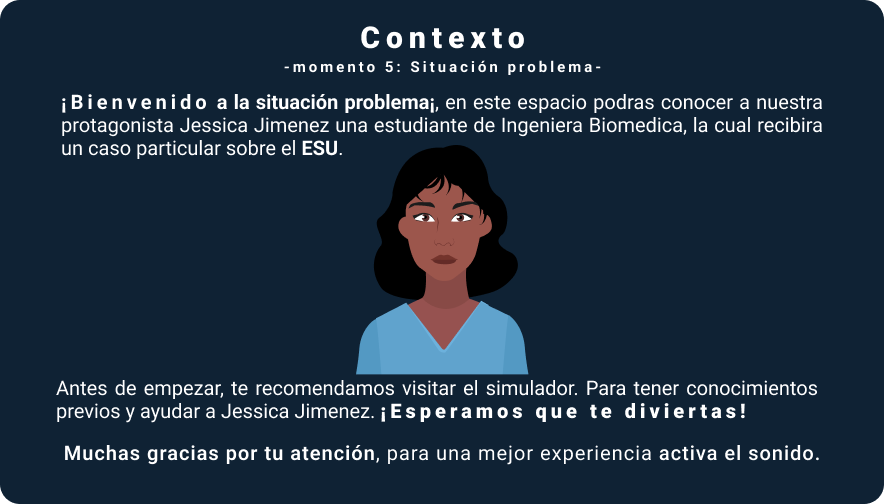
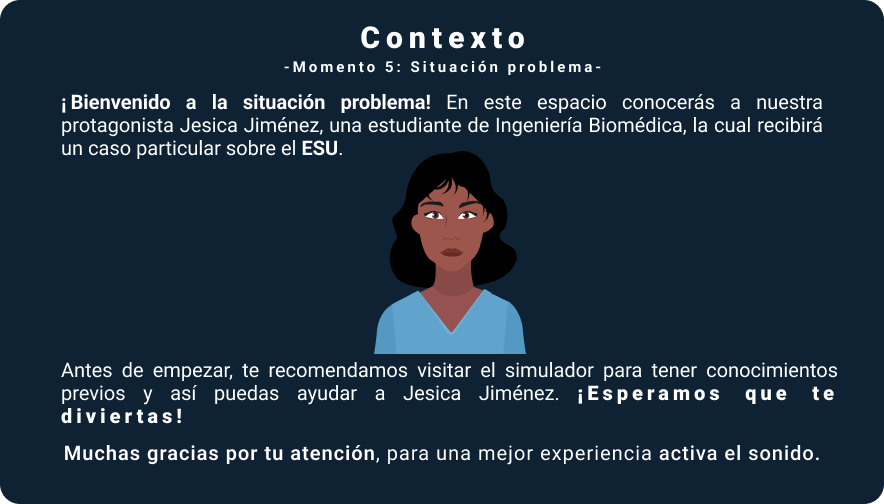
actualizacion v1.2

diff --git a/vistas/styles/stylemom2.css b/vistas/styles/stylemom2.css
@@ -262,7 +262,7 @@ visibility: visible;
 #i-eleminfo{
   display: flex;
   flex-direction: row;
-  padding: 2rem;
+  padding: 3rem;
  
 
 }
@@ -358,7 +358,7 @@ visibility: visible;
   #i-eleminfo{
     display: flex;
     flex-direction: row;
-    padding: 2rem;
+    padding: 3rem;
    
   
   }
@@ -426,7 +426,7 @@ visibility: visible;
   #i-eleminfo{
     display: flex;
     flex-direction: row;
-    padding: 2rem;
+    padding: 3rem;
    
   
   }
@@ -504,7 +504,7 @@ visibility: visible;
   #i-eleminfo{
     display: flex;
     flex-direction: column;
-    padding: 2rem;
+    padding: 3rem;
    
   
   }
@@ -543,7 +543,7 @@ visibility: visible;
   #info-texto{
     text-align: justify;
     font-size: 1.1rem;
-    height: 250px;
+    height: 120px;
    
 
   }
@@ -552,8 +552,8 @@ visibility: visible;
 
 #i-contexto{
     
-  top: 20%;
-  left: 12%;
+  top: 10%;
+  left: 10%;
   right: auto;
   bottom: auto;
 
@@ -562,7 +562,7 @@ visibility: visible;
 }
 
 #ig-img-context{
-   width: 85%;
+   width: 80%;
    height: 500px;
 }
 
@@ -620,7 +620,7 @@ visibility: visible;
   #i-eleminfo{
     display: flex;
     flex-direction: column;
-    padding: 2rem;
+    padding: 3rem;
    
   
   }
@@ -659,7 +659,7 @@ visibility: visible;
   #info-texto{
     text-align: justify;
     font-size: 1.1rem;
-    height: 200px;
+    height: 130px;
    
 
   }
@@ -667,19 +667,16 @@ visibility: visible;
     /*Contexto*/
 
 #i-contexto{
-  margin-left: auto;
-  margin-right: auto;
-  left: 0;
-  right: 0;
-  text-align: center;
+ left: 10%;
+ 
 
  
    
 }
 
 #ig-img-context{
-   width: 85%;
-   height: 500px;
+   width: 80%;
+   height: 400px;
 }
 
 #ig-btnsalirtext{
@@ -743,7 +740,7 @@ text-align: center;
   #i-eleminfo{
     display: flex;
     flex-direction: column;
-    padding: 2rem;
+    padding: 3rem;
    
   
   }

diff --git a/vistas/styles/stylemom3.css b/vistas/styles/stylemom3.css
@@ -314,7 +314,6 @@ bottom: auto;
 }
 @media only screen and (min-width: 1280px) and (max-width: 1600px) {
 
-   
 }
 
 @media only screen and (min-width:768px) and (max-width: 1280px) {
@@ -349,7 +348,7 @@ bottom: auto;
   flex-direction: column-reverse;
   position: absolute;
   margin: 0 0 1.5rem  ;
-  top: 77%;
+  top: 64%;
   left: 88%;
  
   z-index: 2;

diff --git a/vistas/js/conexiones.js b/vistas/js/conexiones.js
@@ -809,6 +809,7 @@ function BtnSalirTxt( text, info ) {
 			groupSprites.add(sprite);
 			groupSprites.add(sprite2);
 			groupSprites.add(sprite3);
+			groupSprites.add(sprite4);
 			
 			
 
